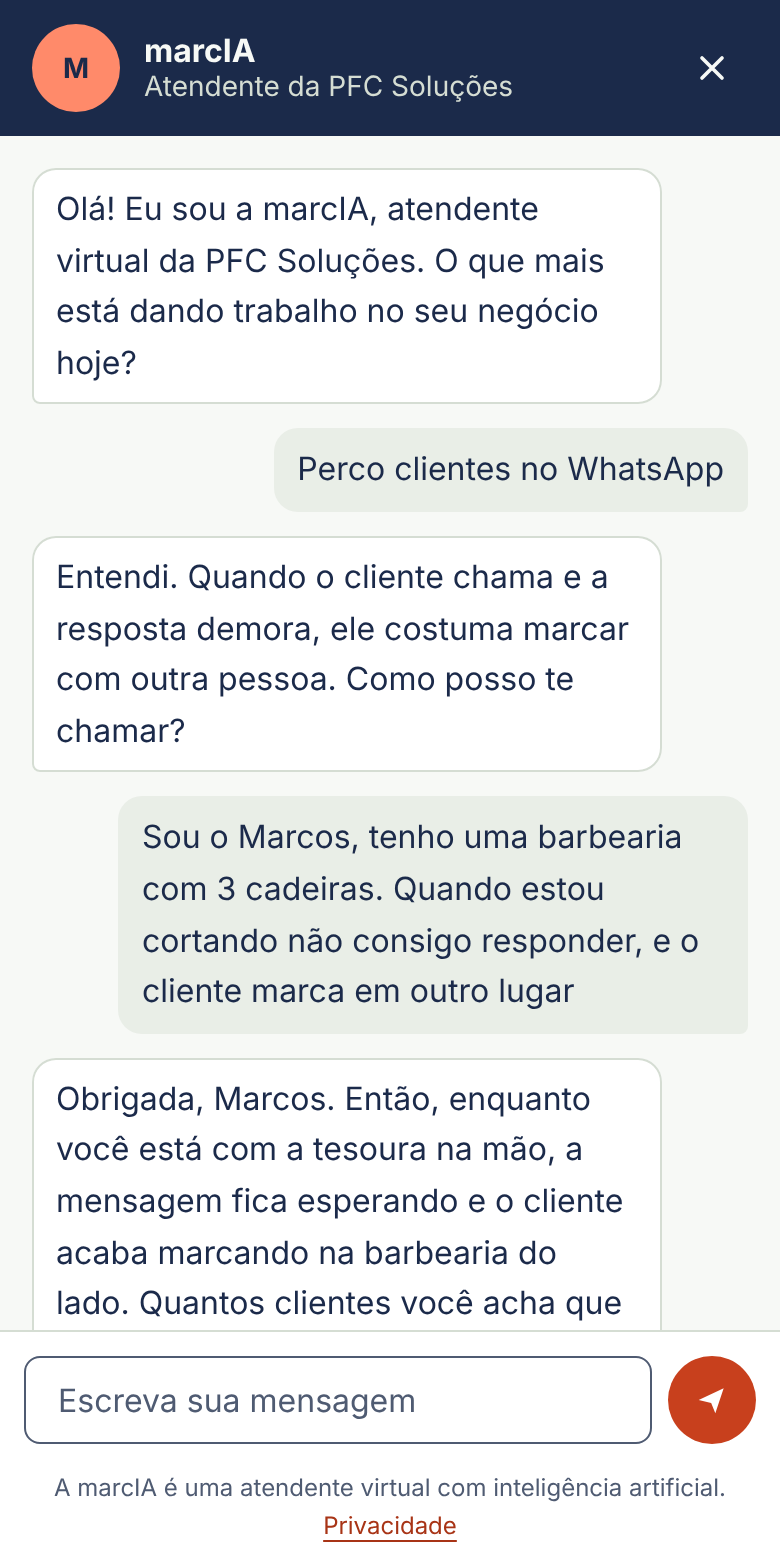
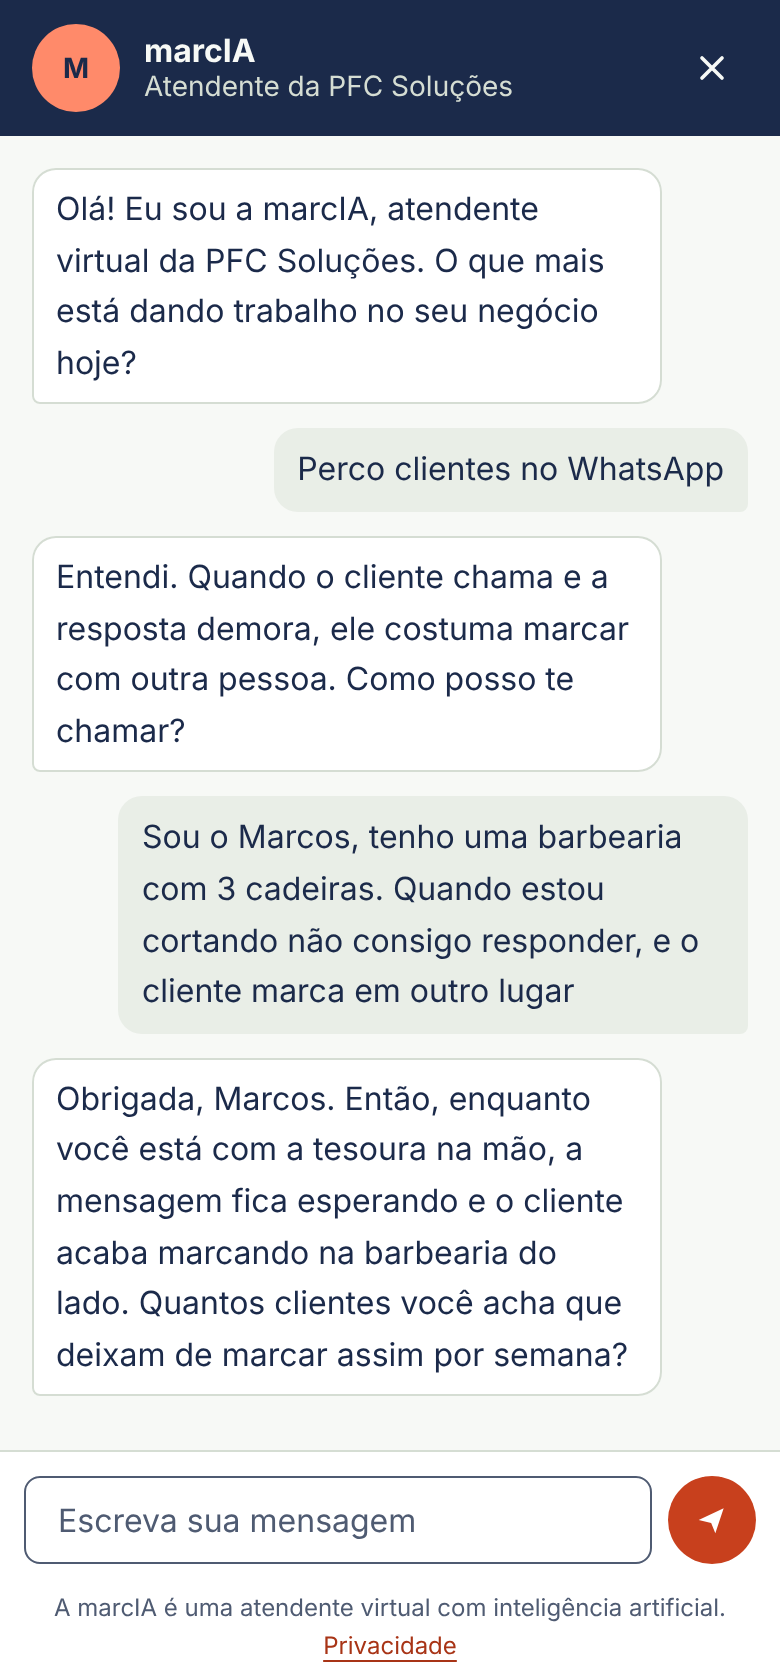
Acabamento da revisão de marca (#62)
- Print do topo maior e sem a última mensagem cortada; moldura de 340px
- Coral cheio só para falar com a atendente e agendar; faixa final prioriza a
  conversa de 1 hora em vez de repetir o topo
- Etapas viram linha do tempo com títulos específicos; tabela compacta no celular
  e preço do site na linha de valor
- Cartão em destaque com print maior; ícone ao lado do título nos cartões
- Rodapé sem a coluna que repetia as soluções e sem redes duplicadas
- Títulos de seção específicos; público movido do topo para as soluções

Claude-Session: https://claude.ai/code/session_01G98QT6YPnmbav7dBjAuo4g

Changed region(s): [[0.0308, 0.3385, 0.9846, 1.0], [0.0, 0.0, 1.0, 0.2462], [0.3692, 0.2769, 0.9231, 0.3077]]

diff --git a/src/data/site.ts b/src/data/site.ts
@@ -76,15 +76,6 @@ export const footer = {
         { href: '/condicoes', label: 'Condições do site' },
       ],
     },
-    {
-      title: 'Soluções',
-      links: [
-        { href: '/#solucao-atendimento', label: 'Atendimento com IA' },
-        { href: '/#solucao-agenda', label: 'Agenda online' },
-        { href: '/#solucao-financas', label: 'Finanças' },
-        { href: '/#solucao-presenca-online', label: 'Sites profissionais' },
-      ],
-    },
   ],
 };
 
@@ -93,7 +84,7 @@ export const footer = {
 
 export const hero = {
   title: 'Sistemas sob medida para pequenos negócios',
-  lead: 'Atendimento no WhatsApp, agenda e finanças para barbearias, salões, clínicas de estética, personal trainers e prestadores de serviço. Você conta como o seu negócio funciona hoje e recebe um sistema que faz o mesmo trabalho, sem planilha nem papel, pelo celular.',
+  lead: 'Atendimento no WhatsApp, agenda e finanças que seguem o jeito como o seu negócio já trabalha. Sem planilha nem papel, tudo pelo celular.',
   primaryCta: 'Falar com a atendente virtual',
   // Print real da marcIA (conversa de teste no site em produção).
   shotCaption: 'Conversa de teste com a marcIA.',
@@ -140,7 +131,7 @@ export type Solution = {
 
 export const solutions = {
   title: 'Veja funcionando',
-  lead: 'Projetos de demonstração construídos pela PFC, com dados fictícios, para você ver cada solução antes de contratar.',
+  lead: 'Para barbearias, salões, clínicas de estética, personal trainers e prestadores de serviço. São projetos de demonstração construídos pela PFC, com dados fictícios, para você ver cada solução antes de contratar.',
   items: [
     {
       area: 'Atendimento',
@@ -169,7 +160,7 @@ export const solutions = {
       area: 'Presença online',
       title: 'Site profissional',
       description: 'Feito para o celular, com botão direto para o seu WhatsApp.',
-      features: ['Domínio próprio configurado', 'No ar em até 10 dias depois da sua aprovação'],
+      features: ['A partir de R$ 700', 'Domínio próprio configurado', 'No ar em até 10 dias depois da sua aprovação'],
     },
   ] satisfies Solution[],
 };
@@ -185,34 +176,34 @@ type ProcessStep = {
 // Método de trabalho. A marcIA também usa este texto, então ele precisa
 // refletir o que a PFC realmente faz em cada etapa.
 export const process = {
-  title: 'Como funciona',
-  lead: 'A decisão de contratar vem depois da proposta escrita.',
+  title: 'Do primeiro contato ao sistema no ar',
+  lead: 'Você só decide contratar depois de ler a proposta.',
   steps: [
     {
-      title: 'Levantamento',
+      title: 'Uma conversa de 1 hora',
       summary: 'Entendemos a sua rotina',
-      text: 'Conversa online sobre a sua rotina e onde você perde clientes.',
+      text: 'Online, sobre a sua rotina e onde você perde clientes ou tempo.',
       deliverable: 'O que vale resolver primeiro, e se um sistema resolve mesmo o seu problema.',
       participation: 'Uma conversa online, sem compromisso.',
     },
     {
-      title: 'Proposta',
+      title: 'Proposta por escrito',
       summary: 'Encontramos as perdas e definimos o escopo',
-      text: 'Escopo, prazo e valor por escrito. Você aprova, ajusta ou desiste.',
+      text: 'Escopo, prazo e valor. Você aprova, pede ajustes ou desiste.',
       deliverable: 'Uma proposta escrita com escopo, prazo e valor, antes de começar.',
       participation: 'Você aprova, pede ajustes ou decide não seguir.',
     },
     {
-      title: 'Construção',
+      title: 'Você testa antes',
       summary: 'Desenhamos e construímos em partes',
-      text: 'Construímos em partes. Você testa as telas com os seus serviços e preços.',
+      text: 'Construímos em partes, e você testa as telas com os seus serviços e preços.',
       deliverable: 'Telas para testar antes da versão final, já com os seus serviços e preços.',
       participation: 'Você testa durante a construção e diz o que ajustar.',
     },
     {
-      title: 'Entrega',
+      title: 'No ar com os seus dados',
       summary: 'Entregamos funcionando e acompanhamos',
-      text: 'Sistema no ar com os dados do seu negócio e acompanhamento depois da entrega.',
+      text: 'Sistema funcionando com os dados do seu negócio, e acompanhamento depois da entrega.',
       deliverable: 'O sistema funcionando e acompanhamento para ajustar o que aparecer no uso.',
       participation: 'Você usa na rotina e conta o que pode melhorar.',
     },
@@ -238,7 +229,7 @@ export const comparison = {
     { label: 'Para começar', ready: 'Você assina e configura sozinho', custom: 'Uma conversa de 1 hora sobre como o seu negócio funciona' },
     { label: 'Partes do negócio', ready: 'Costuma cobrir uma; o resto fica em planilha', custom: 'Atendimento, agenda, cobrança e finanças juntos' },
     { label: 'Pedido de mudança', ready: 'Entra na fila do suporte e pode não ser atendido', custom: 'Você pede ao Pietro e combina o prazo' },
-    { label: 'Valor', ready: 'Mensalidade por plano', custom: 'Definido na proposta' },
+    { label: 'Valor', ready: 'Mensalidade por plano', custom: 'Site a partir de R$ 700; sistemas, na proposta' },
   ],
 };
 
@@ -274,6 +265,6 @@ export const faq = {
 };
 
 export const contactSection = {
-  title: 'Fale com a PFC',
-  lead: 'A marcIA faz as primeiras perguntas e o Pietro recebe o resumo.',
+  title: 'Comece com uma conversa de 1 hora',
+  lead: 'Escolha um horário com o Pietro, ou adiante as primeiras perguntas com a marcIA, a nossa atendente virtual.',
 };

diff --git a/src/styles/tokens.css b/src/styles/tokens.css
@@ -111,8 +111,8 @@
   --measure-short: 52ch; /* notas curtas */
   --measure-title: 22ch; /* títulos de página */
   --header-offset: 88px; /* âncoras não ficam escondidas atrás do cabeçalho fixo */
-  --device-width: 300px; /* moldura de celular no topo */
-  --shot-width: 220px; /* print ao lado do texto no cartão em destaque */
+  --device-width: 340px; /* moldura de celular no topo */
+  --shot-width: 260px; /* print ao lado do texto no cartão em destaque */
   --chat-width: 400px;
   --chat-height: 620px;
   /* Larguras de tela (media queries não leem variáveis; use só estas três):
